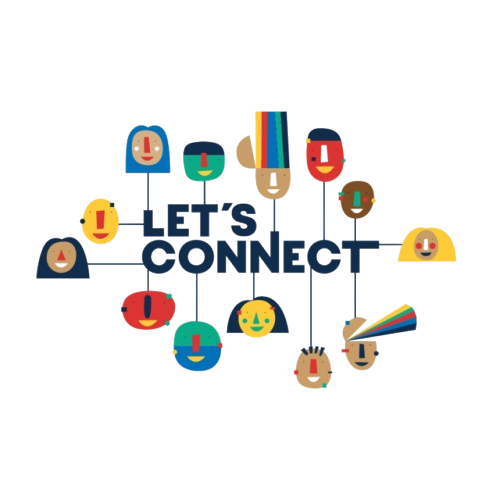
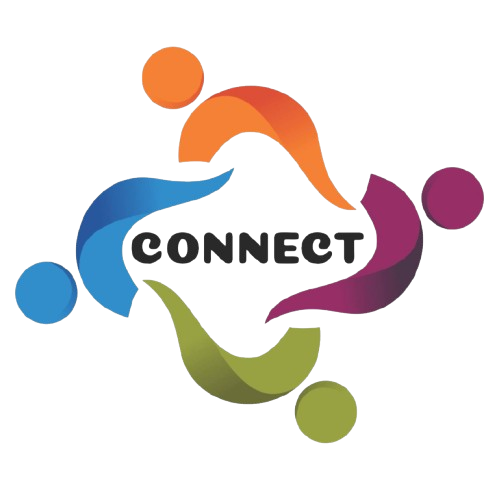
splash assets

Changed region(s): [[0.0301, 0.0902, 0.992, 0.9018]]

diff --git a/lib/screens/splash_screen.dart b/lib/screens/splash_screen.dart
@@ -156,7 +156,7 @@ class _SplashScreenState extends State<SplashScreen> {
                             children: [
                               // Image for each statement with error handling
                               Container(
-                                height: 50,
+                                height: 70,
                                 width: 80,
                                 decoration: BoxDecoration(
                                   borderRadius: BorderRadius.circular(10),